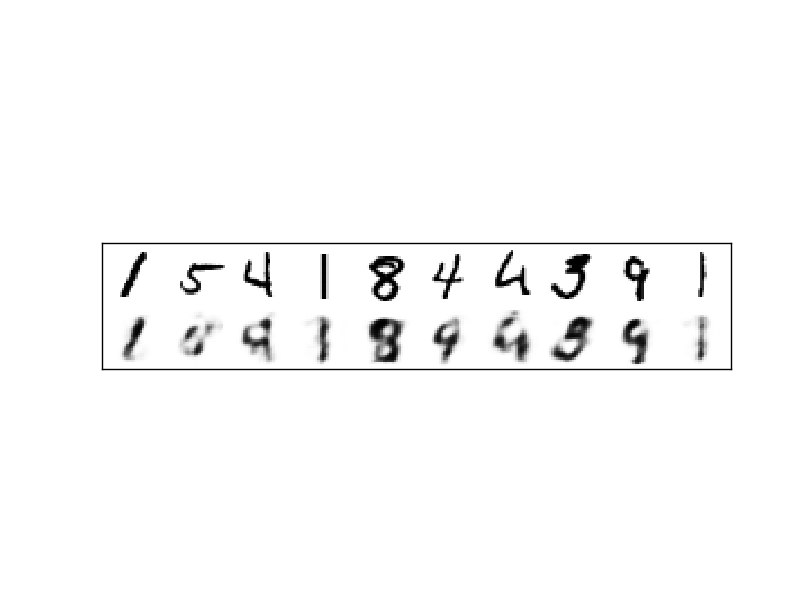
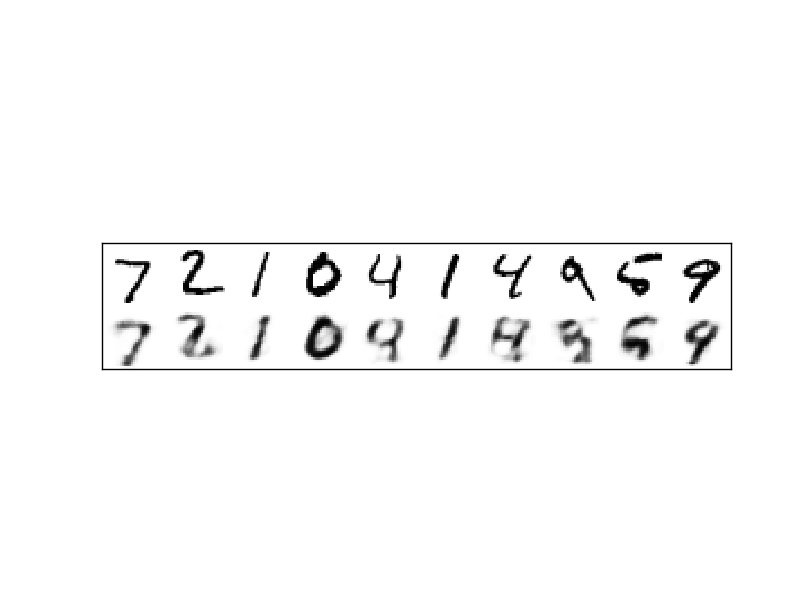
Better images for MNIST autoencoder

diff --git a/code/mnist_autoencoder.py b/code/mnist_autoencoder.py
@@ -15,23 +15,19 @@ import matplotlib
 import matplotlib.pyplot as plt
 import numpy as np
 
-# Constants
-HIDDEN_UNITS=100 # size of the hidden layer in the autoencoder
-
-def main():
+def mnist_autoencoder(hidden_units):
     # Do the training
     training_data, test_inputs, actual_test_results = \
         mnist_loader.load_data_nn()
     autoencoder_training_data = [(x, x) for x, _ in training_data]
-    net = Network([784, HIDDEN_UNITS, 784])
+    net = Network([784, hidden_units, 784])
     net.SGD(autoencoder_training_data, 3, 10, 0.01, 0.05)
-    # Plot the first ten outputs
+    # Plot the first ten test outputs
     fig = plt.figure()
     ax = fig.add_subplot(111)
-    images_in = [autoencoder_training_data[j][0].reshape(-1, 28)
-                 for j in range(10)]
-    images_out = [net.feedforward(autoencoder_training_data[j][0]).\
-                      reshape(-1, 28) for j in range(10)]
+    images_in = [test_inputs[j].reshape(-1, 28) for j in range(10)]
+    images_out = [net.feedforward(test_inputs[j]).reshape(-1, 28) 
+                  for j in range(10)]
     image_in = np.concatenate(images_in, axis=1)
     image_out = np.concatenate(images_out, axis=1)
     image = np.concatenate([image_in, image_out])
@@ -39,6 +35,3 @@ def main():
     plt.xticks(np.array([]))
     plt.yticks(np.array([]))
     plt.show()
-
-if __name__ == "__main__":
-    main()
